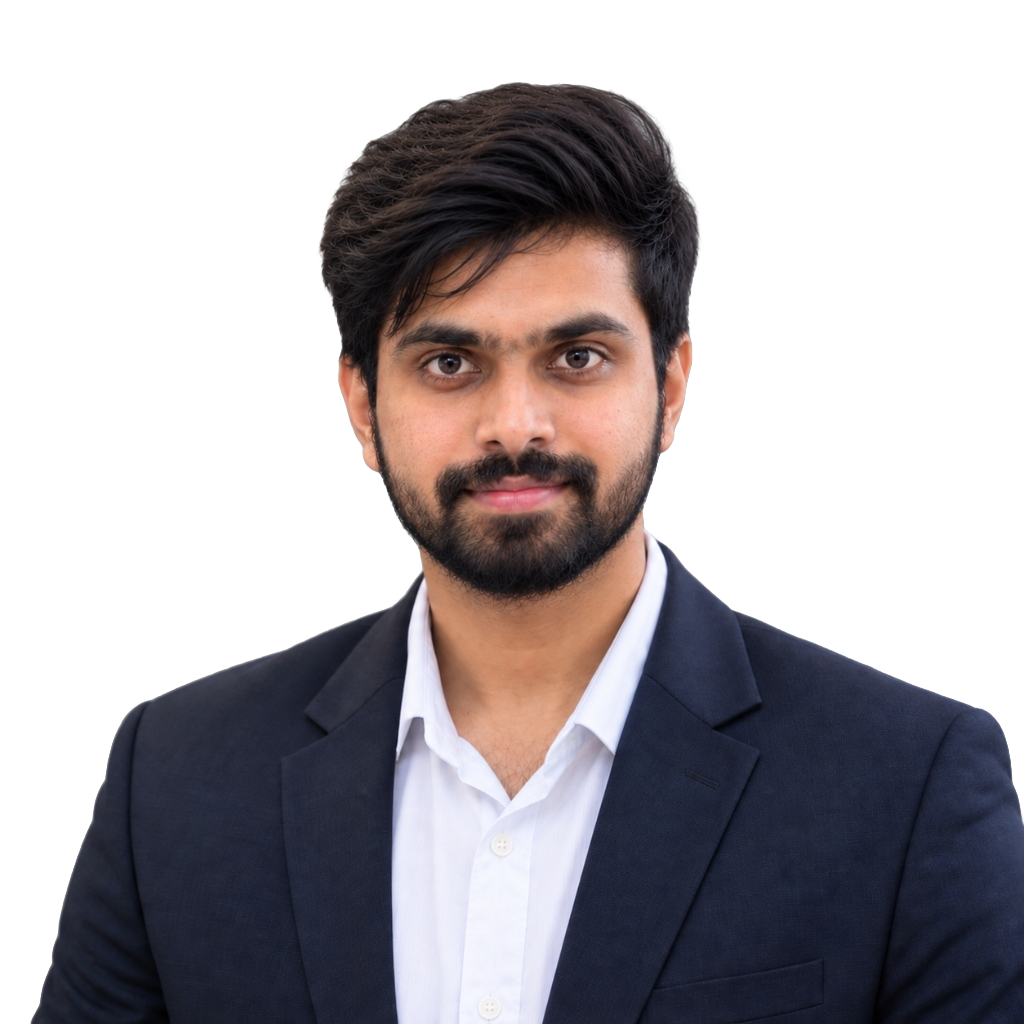
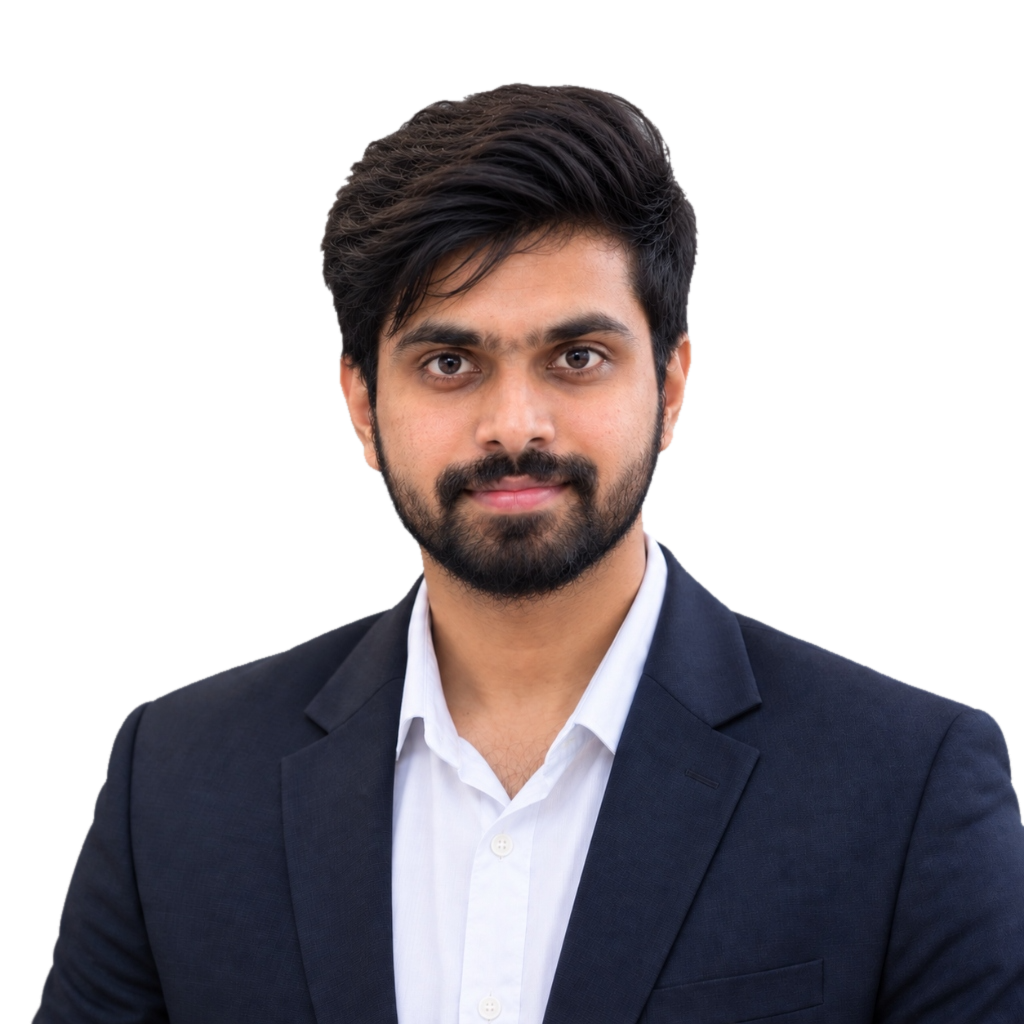
fix(hero): defringe portrait cutout, enlarge image scale, and fix letter y clipping

diff --git a/index.html b/index.html
@@ -219,23 +219,23 @@
     <main class="max-w-6xl mx-auto px-6 py-10 space-y-24">
 
         <!-- EDITORIAL HERO SECTION (FRAMER AESTHETIC) -->
-        <section class="pt-4 sm:pt-8 pb-8 relative overflow-hidden">
+        <section class="pt-4 sm:pt-8 pb-8 relative">
             <div class="relative w-full max-w-5xl mx-auto flex flex-col items-center">
                 
-                <!-- Seamless Cutout Portrait (Centered, fading directly into dark canvas) -->
-                <div class="relative z-10 w-[270px] sm:w-[350px] md:w-[410px] aspect-square -mb-14 sm:-mb-24 md:-mb-32">
+                <!-- Seamless Cutout Portrait (Prominent & Enchanced Scale, fading directly into dark canvas) -->
+                <div class="relative z-10 w-[320px] sm:w-[440px] md:w-[540px] lg:w-[600px] aspect-square -mb-16 sm:-mb-28 md:-mb-40 lg:-mb-48">
                     <!-- Subtle soft spotlight behind subject -->
-                    <div class="absolute inset-0 bg-radial from-white/[0.07] via-white/[0.01] to-transparent rounded-full blur-3xl scale-95 pointer-events-none"></div>
+                    <div class="absolute inset-0 bg-radial from-white/[0.08] via-white/[0.01] to-transparent rounded-full blur-3xl scale-95 pointer-events-none"></div>
                     
-                    <!-- Apple Vision Neural Cutout with smooth bottom dissolve -->
+                    <!-- Clean Defringed Neural Cutout with smooth bottom dissolve -->
                     <img src="profile_cutout.webp" alt="Shivamshu Roy" 
                          class="w-full h-full object-cover object-top filter brightness-[0.98] contrast-[1.03] select-none pointer-events-none"
-                         style="mask-image: linear-gradient(to bottom, black 50%, transparent 96%); -webkit-mask-image: linear-gradient(to bottom, black 50%, transparent 96%);" />
+                         style="mask-image: linear-gradient(to bottom, black 52%, transparent 97%); -webkit-mask-image: linear-gradient(to bottom, black 52%, transparent 97%);" />
                 </div>
 
-                <!-- Giant Statement Name Layer (Overlapping lower chest) -->
-                <div class="relative z-20 w-full text-center px-2">
-                    <h1 class="text-center font-black tracking-tighter leading-[0.85] select-none text-transparent bg-clip-text bg-gradient-to-b from-white via-zinc-200 to-zinc-600 text-[13.5vw] sm:text-[11.5vw] md:text-[9.5vw] lg:text-[124px]">
+                <!-- Giant Statement Name Layer (Overlapping lower chest, with padding to prevent any glyph clipping) -->
+                <div class="relative z-20 w-full text-center px-4 sm:px-8 overflow-visible">
+                    <h1 class="inline-block text-center font-black tracking-[-0.035em] leading-[0.96] pb-3 pr-3 select-none text-transparent bg-clip-text bg-gradient-to-b from-white via-zinc-200 to-zinc-600 text-[13vw] sm:text-[11vw] md:text-[9vw] lg:text-[122px]">
                         Shivamshu Roy
                     </h1>
                 </div>
